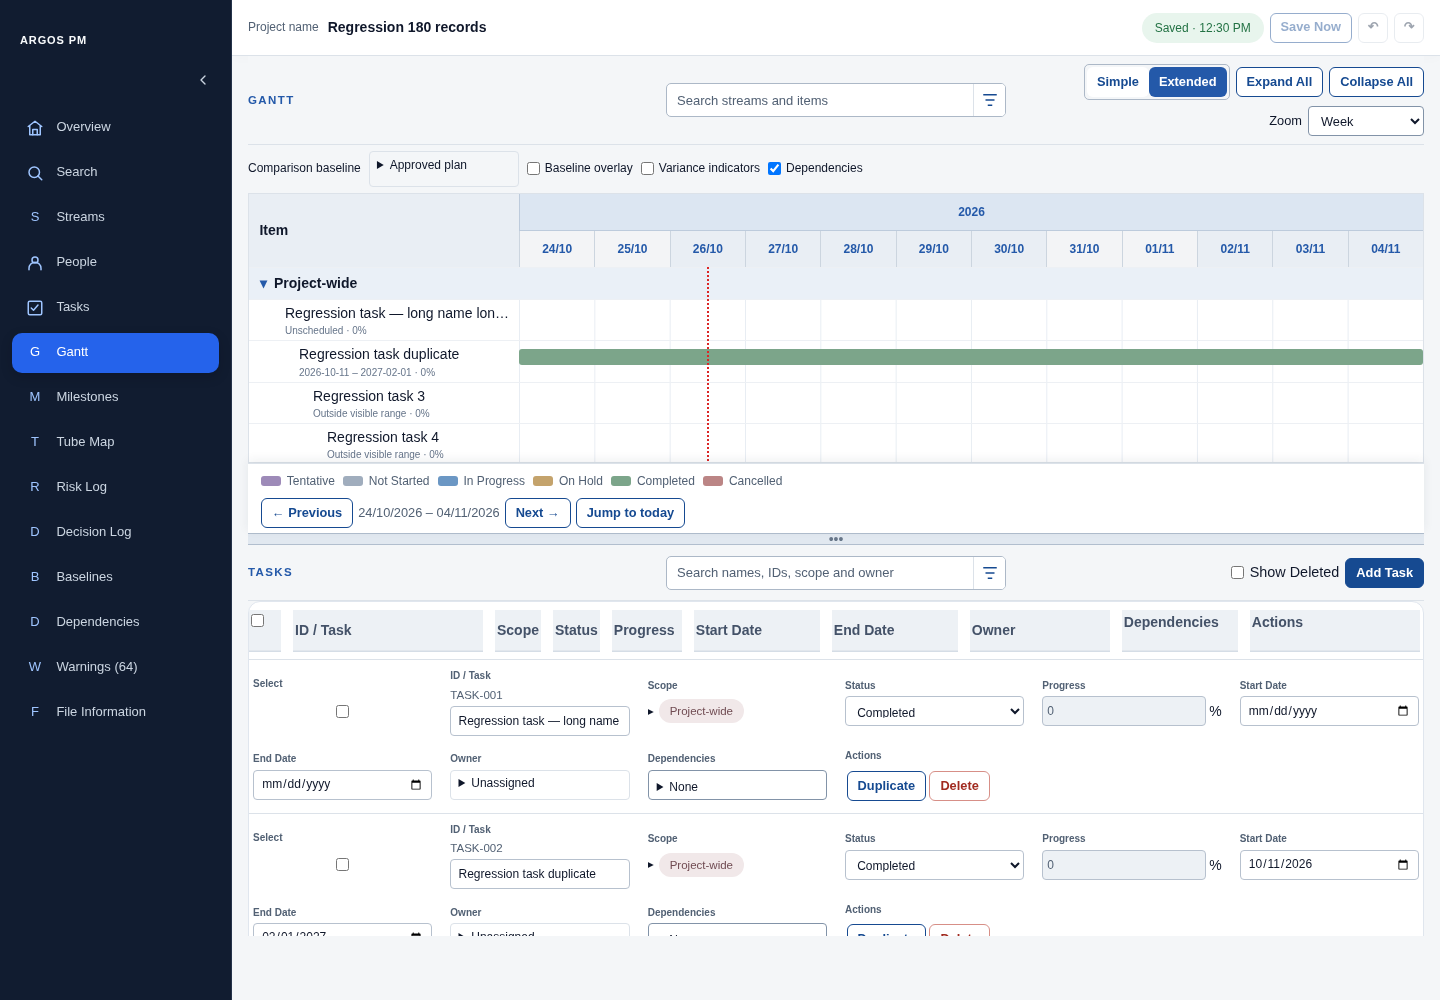
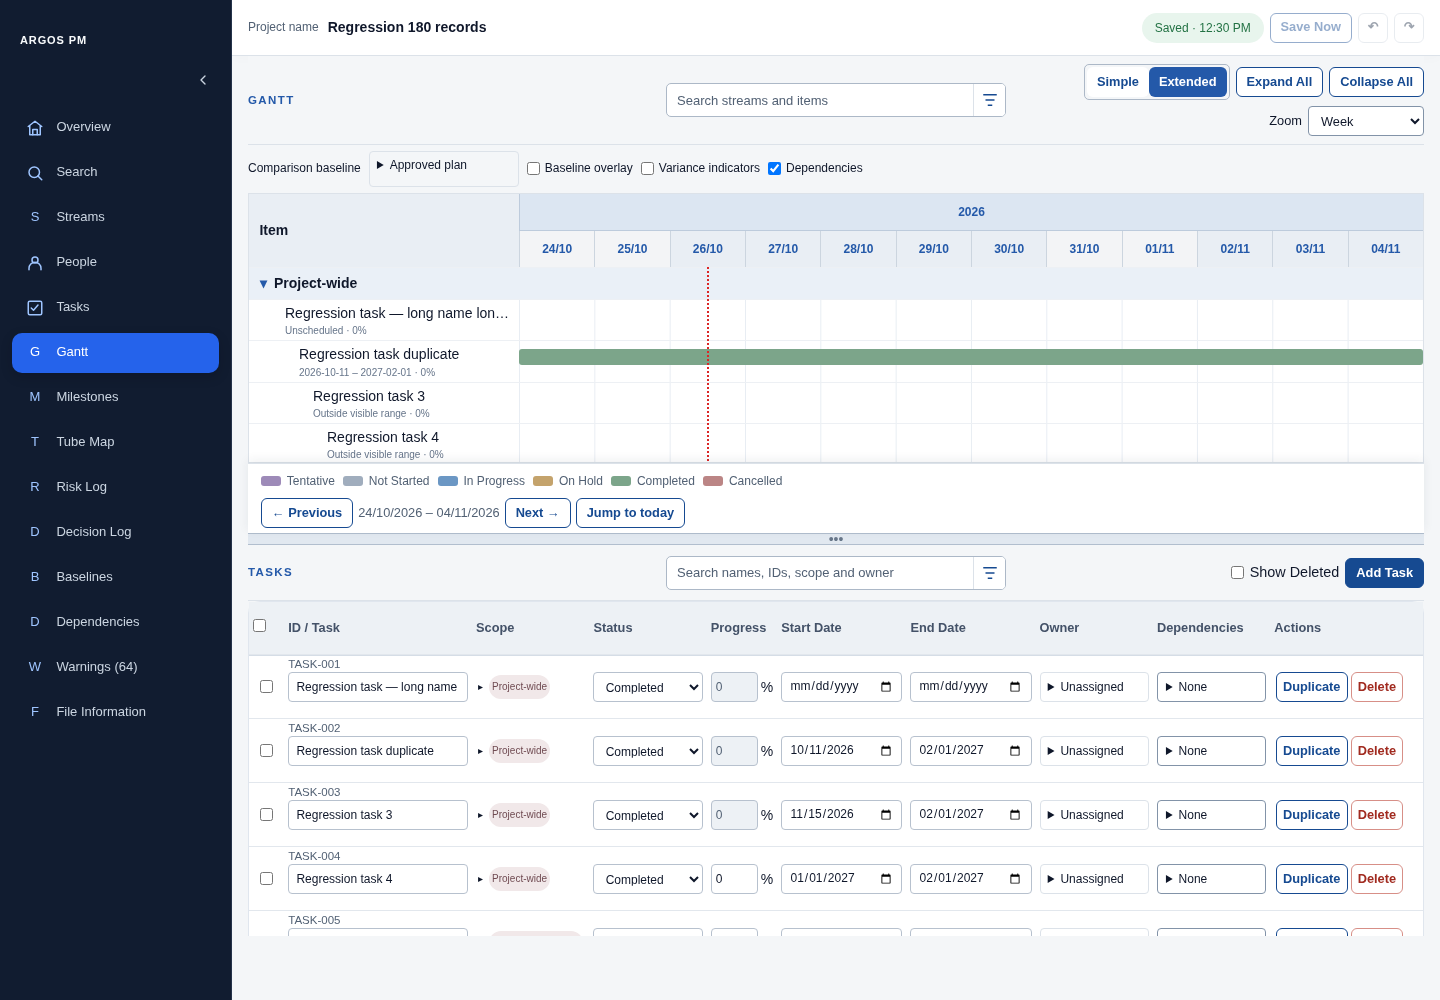
fix(gantt): align Extended Tasks as a continuous single-row table

Changed region(s): [[0.1875, 0.62, 0.9688, 0.93], [0.7188, 0.744, 0.7812, 0.775], [0.8125, 0.744, 0.8438, 0.775]]

diff --git a/src/app/viewport.css b/src/app/viewport.css
@@ -93,12 +93,46 @@
 .workspace .gantt-extended .gantt-panel>.baseline-controls { padding-block:6px; gap:8px; }
 .workspace .gantt-extended .gantt-panel footer.timeline-navigation { gap:5px; padding-block:5px; }
 .workspace .gantt-extended .gantt-panel .timeline-status-legend { gap:8px; font-size:10px; }
-.workspace .gantt-extended .gantt-tasks-pane .panel table.fit-table { font-size:12px; }
-.workspace .gantt-extended .gantt-tasks-pane .panel table.fit-table td { padding:3px 4px; }
-.workspace .gantt-extended .gantt-tasks-pane .panel table.fit-table tbody tr:has(.task-name-cell)>td { min-height:62px; height:auto; }
-.workspace .gantt-extended .gantt-tasks-pane .panel table.fit-table tbody tr { padding-block:6px; gap:6px 10px; }
-.workspace .gantt-extended .gantt-tasks-pane table.fit-table :is(input:not([type=checkbox]),select,summary) { font-size:12px; min-height:30px; height:30px; }
-.workspace .gantt-extended .gantt-tasks-pane table.fit-table td::before { font-size:10px; margin-bottom:3px; }
+/* Keep Extended Tasks as the same continuous table, rather than responsive cards. */
+.workspace .gantt-extended .gantt-tasks-pane .panel table.tasks-table { display:table; width:100%; table-layout:fixed; }
+.workspace .gantt-extended .gantt-tasks-pane .tasks-table thead { display:table-header-group; }
+.workspace .gantt-extended .gantt-tasks-pane .tasks-table tbody { display:table-row-group; }
+.workspace .gantt-extended .gantt-tasks-pane .tasks-table tr { display:table-row; padding:0; }
+.workspace .gantt-extended .gantt-tasks-pane .tasks-table :is(th,td) { display:table-cell; width:auto; min-width:0; padding:8px 4px; white-space:nowrap; vertical-align:middle; }
+.workspace .gantt-extended .gantt-tasks-pane .tasks-table thead th { position:sticky; top:var(--module-toolbar-height); background:#edf1f5; color:#445268; height:40px; font-size:var(--type-control); }
+.workspace .gantt-extended .gantt-tasks-pane .tasks-table th { width:10%; }
+.workspace .gantt-extended .gantt-tasks-pane .tasks-table th:first-child { width:3%; }
+.workspace .gantt-extended .gantt-tasks-pane .tasks-table th:nth-child(2) { width:16%; }
+.workspace .gantt-extended .gantt-tasks-pane .tasks-table th[data-task-column="progress"] { width:6%; }
+.workspace .gantt-extended .gantt-tasks-pane .tasks-table th:is([data-task-column="startDate"],[data-task-column="endDate"]) { width:11%; }
+.workspace .gantt-extended .gantt-tasks-pane .tasks-table th:last-child { width:13%; }
+.workspace .gantt-extended .gantt-tasks-pane .tasks-table tbody tr:has(.task-name-cell)>td { height:64px; min-height:0; border-bottom:1px solid #e2e7ed; }
+.workspace .gantt-extended .gantt-tasks-pane .tasks-table td::before { content:none; }
+.workspace .gantt-extended .gantt-tasks-pane .tasks-table .task-name-cell { position:relative; }
+.workspace .gantt-extended .gantt-tasks-pane .tasks-table .task-name-cell>.task-row-id { position:absolute; top:calc(50% - 31px); left:4px; margin:0; line-height:16px; }
+.workspace .gantt-extended .gantt-tasks-pane .tasks-table :is(input:not([type=checkbox]),select,summary) { font-size:12px; min-height:30px; height:30px; }
+.workspace .gantt-extended .gantt-tasks-pane .tasks-table summary { box-sizing:border-box; min-width:0; max-width:100%; width:100%; line-height:18px; padding-block:5px; white-space:nowrap; overflow:hidden; text-overflow:ellipsis; }
+.workspace .gantt-extended .gantt-tasks-pane .tasks-table summary:has(.scope-pill) { padding-block:3px; }
+.workspace .gantt-extended .gantt-tasks-pane .tasks-table td:first-child input[type=checkbox] { margin:0 auto; }
+.workspace .gantt-extended .gantt-tasks-pane .tasks-table td.table-actions { white-space:nowrap; }
+.workspace .gantt-extended .gantt-tasks-pane .tasks-table .table-actions button { padding-inline:6px; }
 .workspace .gantt-panel .gantt-mode-switch button[aria-pressed="true"] { background:#2459a9; color:white; }
 .workspace .gantt-extended .gantt-row.section .gantt-open-stream { height:22px; min-height:22px; padding:0 3px; }
 .workspace .gantt-extended .gantt-row.section .sort-heading { min-height:0; padding:0; }
+/* Owner correction: fit every Extended task column even in narrower panes. */
+@container (max-width:1050px) {
+ .workspace .gantt-extended .gantt-tasks-pane .tasks-table :is(th,td) { padding-inline:2px; font-size:10px; }
+ .workspace .gantt-extended .gantt-tasks-pane .tasks-table thead th { font-size:9px; }
+ .workspace .gantt-extended .gantt-tasks-pane .tasks-table th:nth-child(2) { width:15%; }
+ .workspace .gantt-extended .gantt-tasks-pane .tasks-table th:nth-child(3) { width:7%; }
+ .workspace .gantt-extended .gantt-tasks-pane .tasks-table th[data-task-column="status"] { width:11%; }
+ .workspace .gantt-extended .gantt-tasks-pane .tasks-table th:is([data-task-column="startDate"],[data-task-column="endDate"]) { width:12.5%; }
+ .workspace .gantt-extended .gantt-tasks-pane .tasks-table :is(input:not([type=checkbox]),select,summary,.sort-heading) { font-size:10px; padding-inline:2px; }
+ .workspace .gantt-extended .gantt-tasks-pane .tasks-table :is(select,summary,.sort-heading) { font-size:9px; }
+ .workspace .gantt-extended .gantt-tasks-pane .tasks-table .task-progress-field input { min-width:0; }
+ .workspace .gantt-extended .gantt-tasks-pane .tasks-table .table-actions button { font-size:9px; padding-inline:1px; margin-inline:1px; }
+ .workspace .gantt-extended .gantt-tasks-pane .tasks-table .scope-pill { max-width:100%; font-size:10px; padding-inline:3px; }
+}
+/* Keep date validation below the control band, as in the standalone table. */
+.workspace .gantt-extended .gantt-tasks-pane .tasks-table td:has(input[type=date]) { position:relative; }
+.workspace .gantt-extended .gantt-tasks-pane .tasks-table td>.field-error { position:absolute; left:2px; right:2px; bottom:1px; height:14px; line-height:14px; font-size:10px; white-space:nowrap; overflow:auto; }

diff --git a/e2e/layout/extended.spec.ts b/e2e/layout/extended.spec.ts
@@ -118,3 +118,29 @@ test('approved alignment preserves navigation, project header and standalone Tas
  await expect(page.getByRole('button',{name:'Save Now',exact:true})).toBeDisabled();
  await page.screenshot({path:testInfo.outputPath('alignment-standalone-tasks.png')});
 });
+
+for(const width of [900,1024,1440,1920])test(`Extended Tasks continuous single-row table at ${width}`,async({page},testInfo)=>{
+ await page.setViewportSize({width,height:1000});await openProject(page);await navigate(page,'Tasks');
+ const headerStyle=await page.locator('.tasks-table th').first().evaluate(e=>({background:getComputedStyle(e).backgroundColor,color:getComputedStyle(e).color}));
+ await navigate(page,'Gantt');await extended(page);
+ const pane=page.locator('.gantt-tasks-pane'),table=pane.locator('.tasks-table');
+ await expect(table).toHaveCSS('display','table');
+ const headings=await table.locator('th').evaluateAll(cells=>cells.map(e=>{const r=e.getBoundingClientRect(),s=getComputedStyle(e);return {x:r.x,right:r.right,y:r.y,height:r.height,background:s.backgroundColor,color:s.color};}));
+ for(const [index,heading] of headings.entries()){
+  expect({background:heading.background,color:heading.color}).toEqual(headerStyle);
+  expect(heading.y).toBeCloseTo(headings[0].y,0);expect(heading.height).toBe(headings[0].height);
+  if(index)expect(heading.x).toBeCloseTo(headings[index-1].right,0);
+ }
+ const row=table.locator('tbody tr').first();
+ const cells=await row.locator('td').evaluateAll(nodes=>nodes.map(e=>{const r=e.getBoundingClientRect();return {x:r.x,right:r.right,y:r.y,height:r.height,label:getComputedStyle(e,'::before').content};}));
+ for(const [index,cell] of cells.entries()){expect(cell.y).toBeCloseTo(cells[0].y,0);expect(cell.height).toBe(cells[0].height);expect(['none','normal']).toContain(cell.label);expect(cell.x).toBeCloseTo(headings[index].x,0);expect(cell.right).toBeCloseTo(headings[index].right,0);}
+ const controls=await row.locator(':scope>td>input,:scope>td>select,:scope>td>details>summary,:scope>td>.task-progress-field>input,:scope>td.table-actions>button').evaluateAll(nodes=>nodes.map(e=>{const r=e.getBoundingClientRect(),cell=e.closest('td')!.getBoundingClientRect();return {label:e.getAttribute('aria-label')??e.textContent,rect:r.toJSON(),cell:cell.toJSON(),center:r.y+r.height/2,inside:r.left>=cell.left-1&&r.right<=cell.right+1&&r.top>=cell.top-1&&r.bottom<=cell.bottom+1};}));
+ expect(controls.length).toBeGreaterThanOrEqual(10);expect(controls.filter(c=>!c.inside)).toEqual([]);expect(Math.max(...controls.map(c=>c.center))-Math.min(...controls.map(c=>c.center))).toBeLessThan(2);
+ expect(await pane.evaluate(e=>e.scrollWidth-e.clientWidth)).toBeLessThanOrEqual(1);
+ await page.screenshot({path:testInfo.outputPath(`${width}-extended-tasks-aligned.png`)});
+ const date=row.getByLabel('Start Date for TASK-001',{exact:true}),before=await date.boundingBox();
+ await date.fill('2030-01-02');await row.getByLabel('End Date for TASK-001',{exact:true}).fill('2030-01-01');
+ await expect(row.getByRole('alert')).toContainText('End Date must be on or after Start Date.');
+ expect(await date.boundingBox()).toEqual(before);
+
+});

diff --git a/docs/V1.6_APPROVED_DESIGN_ALIGNMENT.md b/docs/V1.6_APPROVED_DESIGN_ALIGNMENT.md
@@ -58,3 +58,12 @@ Owner screenshot review identified a confirmed discrepancy: the Predecessor task
 Implementation: a Task-only creation-fields class sets direct predictive-selector and relationship summaries to the existing 34px input height. The unlabelled Predecessor tasks field now bottom-aligns its control and reserved error row with Progress. Scope remains a borderless pill, vertically centered in its control row. Panel dimensions, field order and other entity forms are unchanged. Existing inline and quick editing remain intact.
 
 Validation on this layout fix: production build, typecheck and lint passed. All **29** selected Playwright cases passed in **59.09s**: creation panels plus Extended layout/history/save/reopen. Exact standalone/Extended panel equality and paired control alignment pass at 1024/1440/1920. These creation tests exercise validation, focus, keyboard submission, dirty-dismiss, save bytes and Undo/Redo; the Extended canonical-store case verifies save/reopen. No domain or persistence code changed, so the successful initial unit/full-lifecycle evidence above was not rerun for this CSS correction. A final three-case check additionally asserts Owner/Status and equal paired box widths: all 3 passed in 7.18s. Current screenshot: [after](media/v16-alignment/extended-add-task.png); retained [before](media/v16-alignment/extended-add-task-before.png).
+
+## Follow-up: Extended Tasks table continuity
+
+Owner screenshot review identifies a second confirmed discrepancy: the generic <=1350px wrapping-table rule also converts Extended Tasks into labelled multi-line cards, leaving a fragmented flex header. Align Extended Tasks with the existing standalone table header colors and continuous spacing; render each task in one table row, center its controls vertically, and preserve all fields/actions. Scope the correction to Extended Tasks, leaving standalone Tasks and creation-panel alignment intact. Owner confirmed that all columns must fit without horizontal scrolling, including narrow desktop widths.
+
+
+Implementation: override the responsive-card display rules only under `.gantt-extended .gantt-tasks-pane .tasks-table`. Restore native table groups/rows/cells, continuous sticky header colors, column widths and a shared vertically centered control band. Remove per-card repeated labels, retain the existing ID/name stack, fit selectors within their columns, and keep both row actions on one line. Narrow panes use reduced spacing/type sizes; no fields or actions are removed. Restore absolute date-error positioning so validation feedback does not displace controls. Standalone Tasks and the approved Create Task panel are unchanged by this follow-up.
+
+Final validation: production build, typecheck and lint passed. **All 12 Extended Playwright cases passed in 25.46s**, including four new cases at 900/1024/1440/1920px checking header color equality with standalone, continuous headings, column boundaries, one row per task, control containment/vertical centers, no horizontal overflow and stable input geometry during invalid-date feedback. Existing panel equivalence, scrolling/resizing, shared editing/history, baseline and PMP save/reopen checks also passed. Earlier geometry runs caught Owner's fixed 100px minimum and narrow action wrapping/2px overflow; these were corrected without weakening tests. Prior unaffected unit/full-lifecycle evidence remains explicitly historical. Current screenshots: [1440px](media/v16-alignment/1440-extended-tasks-aligned.png), [900px](media/v16-alignment/900-extended-tasks-aligned.png), [before](media/v16-alignment/extended-tasks-before.png).

diff --git a/docs/media/v16-alignment/README.md b/docs/media/v16-alignment/README.md
@@ -12,3 +12,16 @@ Captured from the actual application on the alignment branch, using disposable b
 - [Validation counts/timings and explicit initial failure record](validation.json)
 
 The preservation test compares the complete navigation names/order/icons, vertical positions across collapse, project-header markup/geometry across modes, and standalone Tasks controls/values/geometry/typography before and after Extended. Existing three-width exact creation-panel equivalence and lifecycle coverage remain intact. See [reconciliation](../../V1.6_APPROVED_DESIGN_ALIGNMENT.md) for scope, confirmed editing behavior and remaining native OS acceptance.
+
+
+## Extended Tasks continuity correction
+
+The owner requested one horizontal task row, continuous header styling matching standalone Tasks, vertical control alignment and no horizontal scrolling. The change is scoped to Extended Tasks; standalone Tasks and Create Task remain intact.
+
+- [Before: wrapped task cards](extended-tasks-before.png)
+- [After: 1440px](1440-extended-tasks-aligned.png)
+- [After: 1920px](1920-extended-tasks-aligned.png)
+- [After: 1024px](1024-extended-tasks-aligned.png)
+- [After: 900px](900-extended-tasks-aligned.png)
+
+All 12 Extended cases pass on the final layout, including the original preservation, creation-panel and save/reopen cases. Narrow widths use compact controls to retain every column without horizontal scrolling, as explicitly requested.

diff --git a/docs/PROJECT_REQUIREMENTS.md b/docs/PROJECT_REQUIREMENTS.md
@@ -2049,3 +2049,9 @@ New Project Status starts blank and must be explicitly selected; Choose File & C
 ## Approved Create Task alignment correction — 26 October 2026
 
 Align adjacent fields and control boxes in the Create Task panel, including predictive selectors, Scope and Predecessor tasks beside Progress. Apply the correction to the shared task creation panel in standalone Tasks and Extended Gantt equally. Preserve panel size/location, field order, existing Scope pill styling, validation/error space and editing behavior. This targeted correction supersedes exact preservation of the prior misaligned creation-control geometry.
+
+## Approved Extended Tasks table correction — 26 October 2026
+
+Extended Tasks must use the existing standalone Tasks header colors with continuous header backgrounds/spacing. Each task occupies one horizontal table row rather than wrapping its fields into labelled cards; all boxes/text align vertically. Retain every field/action and the approved creation panel. This supersedes the earlier multi-line Extended task-card layout; standalone Tasks remains unchanged.
+
+Owner clarification: keep all Extended task columns visible without horizontal scrolling at narrow desktop widths; adapt column/control spacing rather than wrapping fields into multiple rows.
